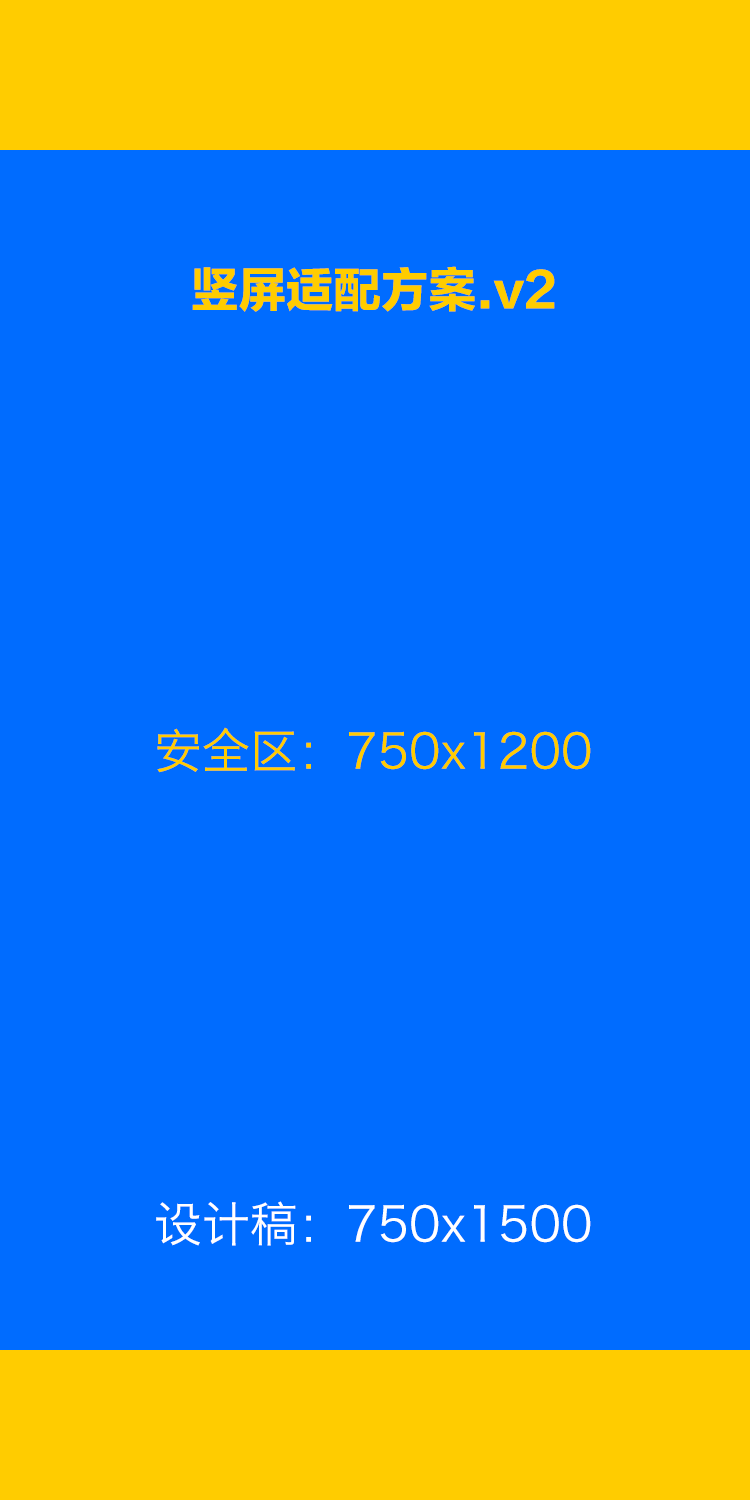
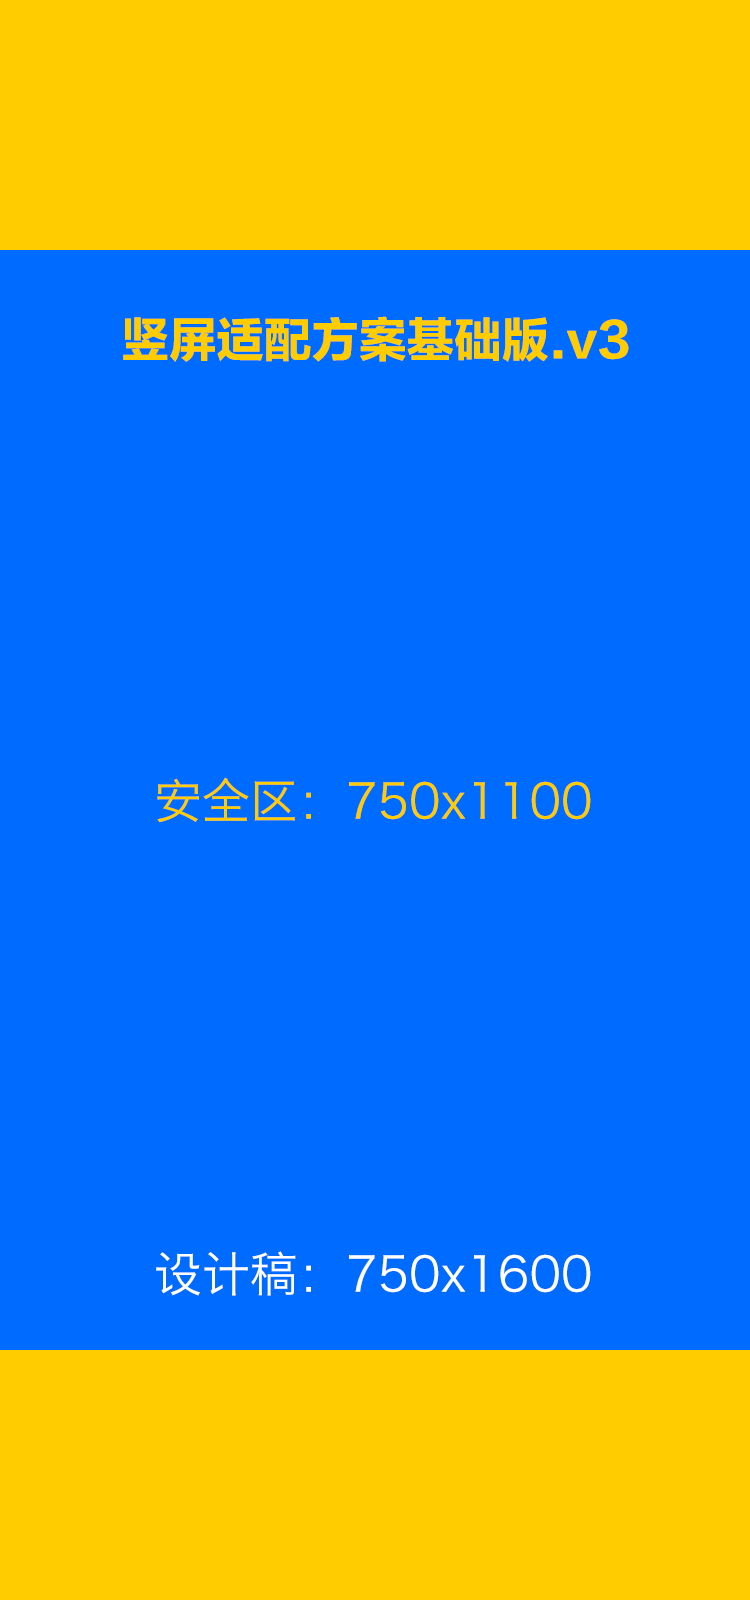
feat：更新适配图片

diff --git a/src/less/style.less b/src/less/style.less
@@ -13,10 +13,6 @@ html, body {
     -webkit-user-select: none;
     user-select: none;
 }
-.m-main-wrap{
-    overflow: hidden;
-
-}
 
 // 横竖屏布局相关，慎删；
 .m-vertical {
@@ -24,8 +20,9 @@ html, body {
     -webkit-transform-origin: center center;
     transform-origin: center center;
     .m-wrap {
-        width: 750px;
-        height: 1500px;
+        width: 100vw;
+        height: 100vh;
+        overflow: hidden;
         background-image: url('@{img}1.png');
     }
 }
@@ -38,8 +35,8 @@ html, body {
     -webkit-transform: rotate(90deg);
     transform: rotate(90deg);
     .m-wrap {
-        width: 1500px;
-        height: 750px;
+        width: 100vh;
+        height: 100vw;
         background-image: url('@{img}2.png');
     }
 }
@@ -50,9 +47,17 @@ html, body {
     .m-horizontal {
         -webkit-transform: rotate(0deg);
         transform: rotate(0deg);
+        .m-wrap {
+            width: 100vw;
+            height: 100vh;
+        }
     }
     .m-vertical {
         -webkit-transform: rotate(-90deg);
         transform: rotate(-90deg);
+        .m-wrap {
+            width: 100vh;
+            height: 100vw;
+        }
     }
 }
